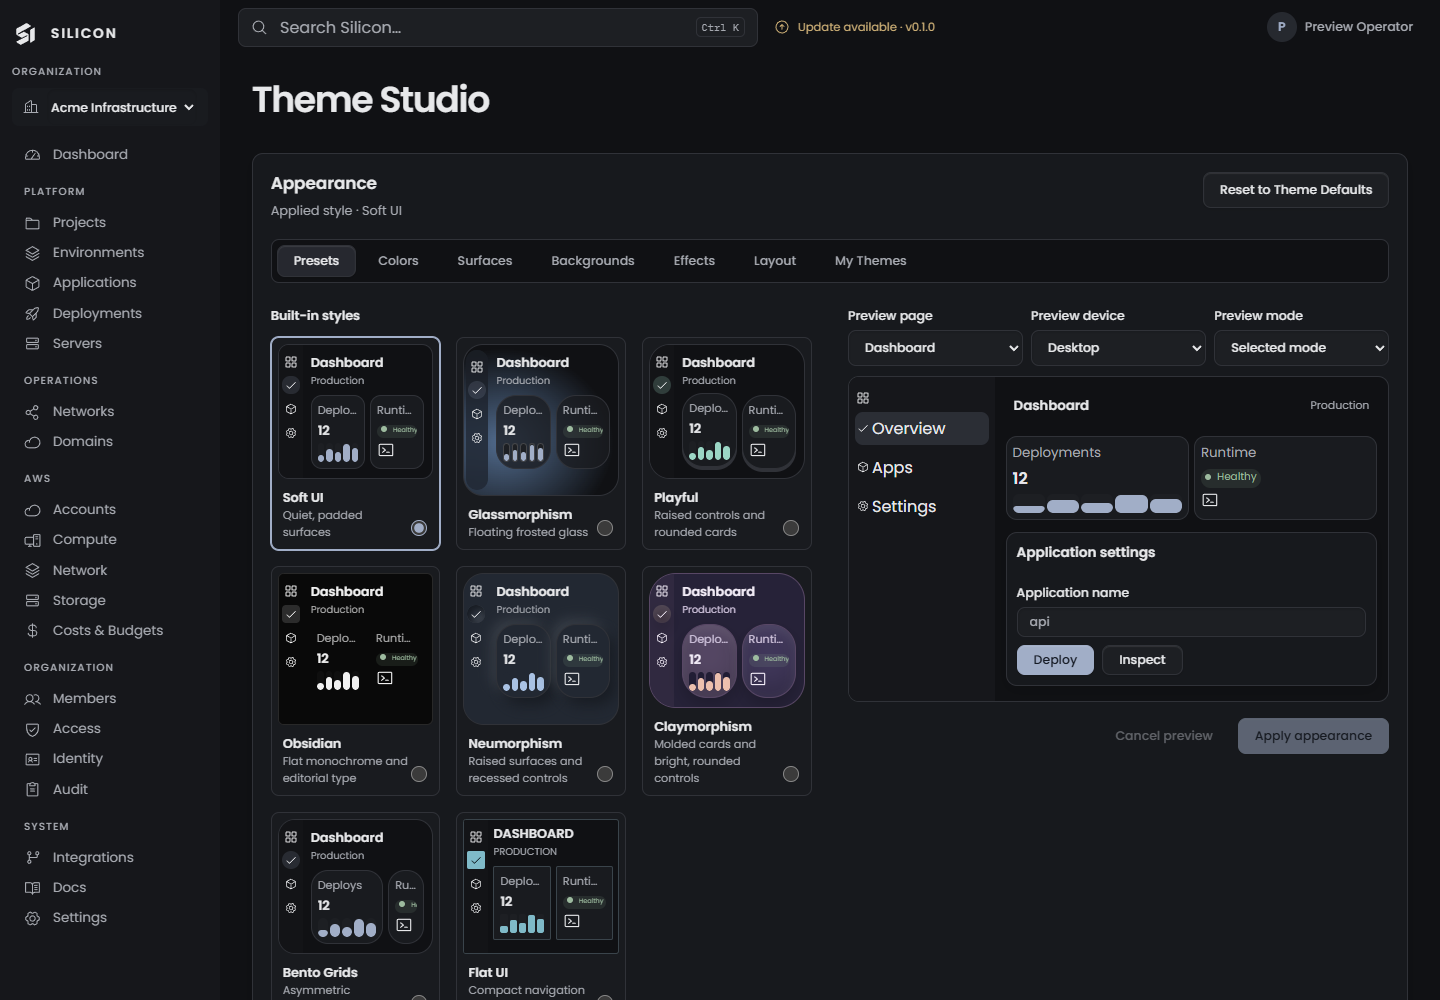
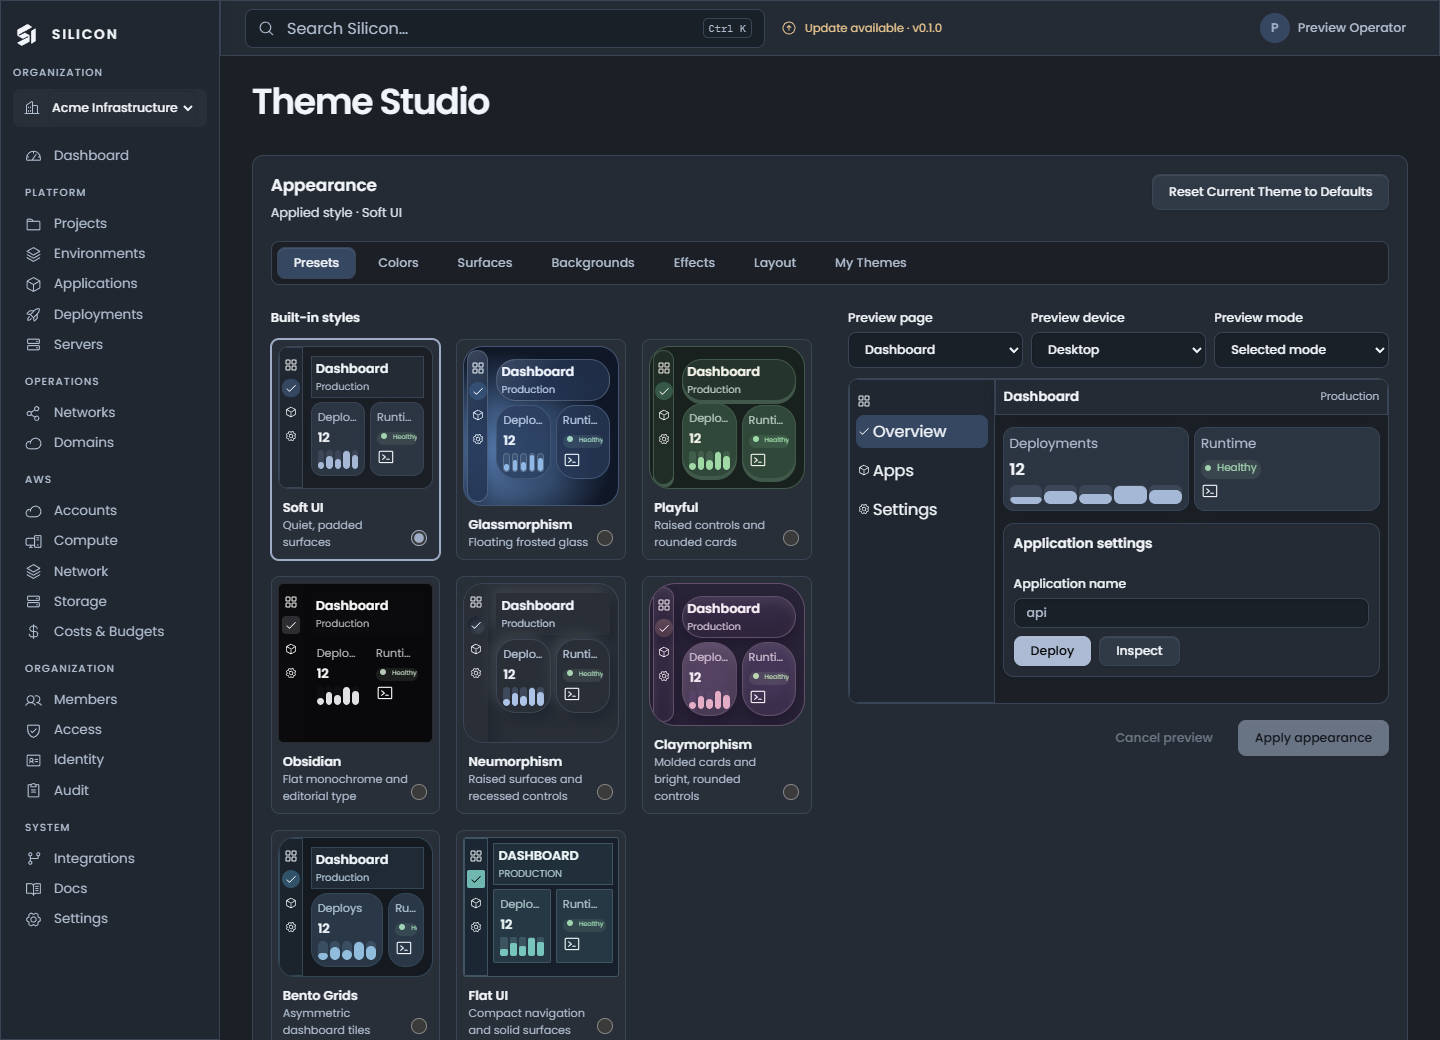
Document per-style appearance and preview palettes

Changed region(s): [[0.1875, 0.093, 0.9688, 1.0], [0.0, 0.0, 1.0, 0.93], [0.0, 0.992, 0.1562, 1.0]]

diff --git a/docs/guides/theme-studio.md b/docs/guides/theme-studio.md
@@ -5,7 +5,7 @@ Open the menu beside your name and select **Theme Studio**. You can also open **
 ## Choose and preview a style
 
 1. Open **Presets** and choose a style. Try Glassmorphism for floating frosted surfaces, Flat UI for a compact solid layout, or Bento Grids for an asymmetric dashboard. Soft UI, Playful, Obsidian, Neumorphism, and Claymorphism are also available.
-2. Use **Preview page** to switch between a dashboard, application, form, table, and dialog. Try **Preview device** and **Preview mode** to see the same draft on mobile or in the other color scheme. The preview contains example data.
+2. Use **Preview page** to switch between a dashboard, application, form, table, and dialog. Try **Preview device** and **Preview mode** to see the same draft on mobile or in the other color scheme. The preview contains example data and uses the selected style’s light or dark palette and navigation materials. Switching styles loads that style’s saved overrides.
 3. Under **Layout**, choose light, dark, or system mode, then set density, sidebar treatment, content width, or dashboard layout. **Apply appearance** saves the draft. **Cancel preview** discards it.
 
 ![Eight styles and the live preview in the Silicon Theme Studio](/img/screenshots/settings-appearance.png)
@@ -38,4 +38,4 @@ Open the menu beside your name and select **Theme Studio**. You can also open **
 1. Open **My Themes**, enter a name, and choose **Save custom preset**. Select **Apply appearance** to save it. You can store up to 12 presets.
 2. To reuse a preset, select it and choose **Preview preset**, then **Apply appearance**. This tab also lets you rename, duplicate, reset, and delete a preset. Those changes are saved when you apply.
 3. Use **Export theme** to download a versioned JSON file for the selected preset or current draft. To reuse it, choose **Import theme** and review the preview before applying. Your private account image is stored separately from the JSON.
-4. **Reset to Theme Defaults** clears the current customizations in the draft and keeps saved presets. Apply to make the reset permanent.
+4. **Reset Current Theme to Defaults** clears overrides for the selected built-in style. It keeps your other styles, saved presets, color mode, and density. Apply to make the reset permanent.
